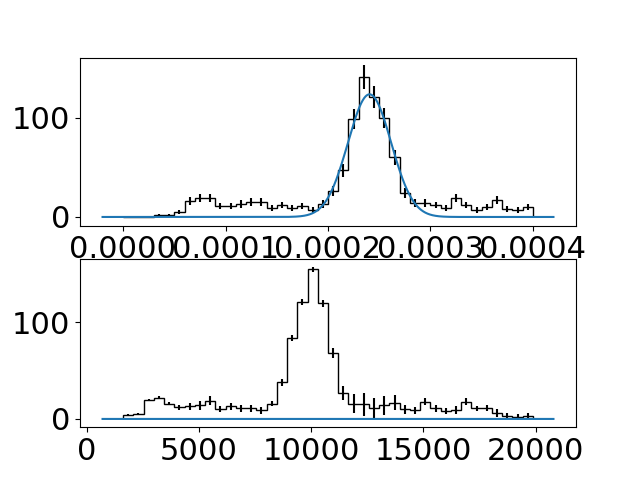
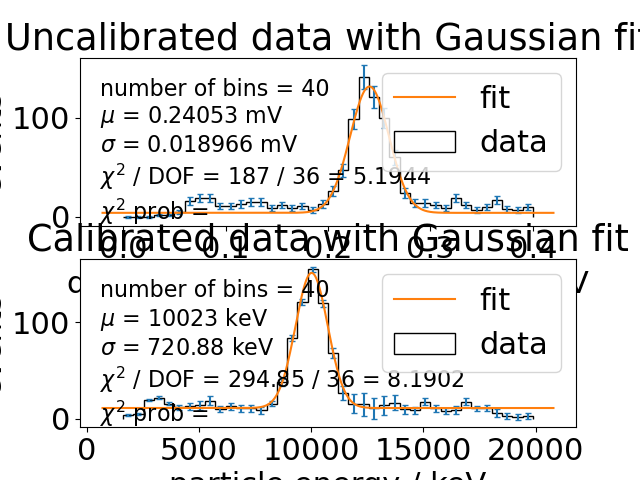
added p0 attributes to estimator classes, added MaxBaseline estimator, added num_of_params attributes to fit_functions, added baseplot_errorbars, baseplot_errorbars_with_markers, to_sf, residual, sum_squared_ratio, calc_dof, calc_raw_chi_squared, calc_reduced_chi_squared to curve_fit_funcs, added in

diff --git a/estimator_analysis.py b/estimator_analysis.py
@@ -1,9 +1,14 @@
 import numpy as np
 import matplotlib.pyplot as plt
 from matplotlib import rc
+from matplotlib.offsetbox import AnchoredText
+from scipy.optimize import curve_fit
+
 import fit_functions
 import fitted_functions
-from scipy.optimize import curve_fit
+from curve_fit_funcs import CurveFitFuncs
+
+cff = CurveFitFuncs()
 
 font = {'family' : 'DejaVu Sans',
         'weight' : 'normal',
@@ -25,7 +30,7 @@ class EstimatorAnalysis():
 
         self.number_of_bins = 40
 
-        self.uncalibrated_bin_heights, self.uncalibrated_bin_edges, _ = ax1.hist(x=self.estimator_results, bins=self.number_of_bins, label='data', color='k', histtype='step', range=(0, 0.0004)) # HARDCODED RANGE
+        self.uncalibrated_bin_heights, self.uncalibrated_bin_edges, _ = ax1.hist(x=self.estimator_results, bins=self.number_of_bins, label='data', color='k', histtype='step', range=self.Estimator.range) # HARDCODED RANGE
         self.uncalibrated_bin_centers = (self.uncalibrated_bin_edges[:-1] + self.uncalibrated_bin_edges[1:]) / 2
 
         self.count_errors = np.sqrt(self.uncalibrated_bin_heights)
@@ -33,39 +38,89 @@ class EstimatorAnalysis():
 
         fit_function_uncalibrated = fit_functions.Gaussian()
 
-        popt, pcov = curve_fit(fit_function_uncalibrated, self.uncalibrated_bin_centers, self.uncalibrated_bin_heights, sigma=self.count_errors, absolute_sigma=True, p0=(100,0.00025,0.00005)) # HARDCODED P0 INITIAL GUESS
+        popt, pcov = curve_fit(fit_function_uncalibrated, self.uncalibrated_bin_centers, self.uncalibrated_bin_heights, sigma=self.count_errors, absolute_sigma=True, p0=self.Estimator.p0) # HARDCODED P0 INITIAL GUESS
         self.error_in_uncalibrated_fit_parameters = np.sqrt(np.diag(pcov))
 
-        (self.uncalibrated_gaussian_scale, self.uncalibrated_gaussian_mu, self.uncalibrated_gaussian_sigma) = tuple(popt)
+        (self.uncalibrated_gaussian_base, self.uncalibrated_gaussian_scale, self.uncalibrated_gaussian_mu, self.uncalibrated_gaussian_sigma) = tuple(popt)
 
         fitted_function_uncalibrated = fitted_functions.Gaussian(*popt)
 
 
         self.calibration_energy = 1e4 # keV
         self.calibration_constant = self.calibration_energy / self.uncalibrated_gaussian_mu
+        print(self.calibration_constant)
         self.calibrated_estimator_results = self.estimator_results * self.calibration_constant
 
-        self.calibrated_bin_heights, self.calibrated_bin_edges, _ = ax2.hist(x=self.calibrated_estimator_results, bins=self.number_of_bins, label='calibrated data', color='k', histtype='step')
+        self.calibrated_bin_heights, self.calibrated_bin_edges, _ = ax2.hist(x=self.calibrated_estimator_results, bins=self.number_of_bins, label='data', color='k', histtype='step')
         self.calibrated_bin_centers = (self.calibrated_bin_edges[:-1] + self.calibrated_bin_edges[1:]) / 2
 
         fit_function_calibrated = fit_functions.Gaussian()
 
-        popt, pcov = curve_fit(fit_function_calibrated, self.calibrated_bin_centers, self.calibrated_bin_heights, sigma=self.count_errors, absolute_sigma=True)
+        if self.Estimator.p0 != None:
+            calibrated_p0 = tuple(value * scale_factor for value, scale_factor in zip(self.Estimator.p0, (1, 1, self.calibration_constant, self.calibration_constant)))
+        else:
+            calibrated_p0 = None
+
+        popt, pcov = curve_fit(fit_function_calibrated, self.calibrated_bin_centers, self.calibrated_bin_heights, sigma=self.count_errors, absolute_sigma=True, p0=calibrated_p0)
         self.error_in_calibrated_fit_parameters = np.sqrt(np.diag(pcov))
 
-        (self.calibrated_gaussian_scale, self.calibrated_gaussian_mu, self.calibrated_gaussian_sigma) = tuple(popt)
+        (self.calibrated_gaussian_base, self.calibrated_gaussian_scale, self.calibrated_gaussian_mu, self.calibrated_gaussian_sigma) = tuple(popt)
 
         fitted_function_calibrated = fitted_functions.Gaussian(*popt)
 
 
-        ax1.errorbar(self.uncalibrated_bin_centers, self.uncalibrated_bin_heights, yerr=self.count_errors, fmt='none', c='k')
-        ax2.errorbar(self.calibrated_bin_centers, self.calibrated_bin_heights, yerr=self.count_errors, fmt='none', c='k')
+
+
+        self.predicted_uncalibrated_bin_heights = fitted_function_uncalibrated(self.uncalibrated_bin_centers)
+        self.uncalibrated_raw_chi_squared = cff.calc_raw_chi_squared(self.uncalibrated_bin_heights, self.predicted_uncalibrated_bin_heights, self.count_errors)
+        self.uncalibrated_dof = cff.calc_dof(self.uncalibrated_bin_heights, fit_function_uncalibrated.num_of_params)
+        self.uncalibrated_reduced_chi_squared = self.uncalibrated_raw_chi_squared / self.uncalibrated_dof
+
+        self.predicted_calibrated_bin_heights = fitted_function_calibrated(self.calibrated_bin_centers)
+        self.calibrated_raw_chi_squared = cff.calc_raw_chi_squared(self.calibrated_bin_heights, self.predicted_calibrated_bin_heights, self.count_errors)
+        self.calibrated_dof = cff.calc_dof(self.calibrated_bin_heights, fit_function_calibrated.num_of_params)
+        self.calibrated_reduced_chi_squared = self.calibrated_raw_chi_squared / self.calibrated_dof
+
+        cff.baseplot_errorbars(ax1, self.uncalibrated_bin_centers, self.uncalibrated_bin_heights, yerr=self.count_errors)
+        cff.baseplot_errorbars(ax2, self.calibrated_bin_centers, self.calibrated_bin_heights, yerr=self.count_errors)
 
         x_for_plotting_uncalibrated = np.linspace(*ax1.get_xlim(), 10000)
         x_for_plotting_calibrated = np.linspace(*ax2.get_xlim(), 10000)
 
-        ax1.plot(x_for_plotting_uncalibrated, fitted_function_uncalibrated(x_for_plotting_uncalibrated))
-        ax2.plot(x_for_plotting_calibrated, fitted_function_calibrated(x_for_plotting_calibrated))
+        ax1.plot(x_for_plotting_uncalibrated, fitted_function_uncalibrated(x_for_plotting_uncalibrated), label='fit')
+        ax2.plot(x_for_plotting_calibrated, fitted_function_calibrated(x_for_plotting_calibrated), label='fit')
+
+        info_sigfigs = 5
+        info_fontsize = 16
+
+        ax1.set_ylabel('events')
+        ax1.set_xlabel('detector response amplitude / mV')
+        ax1.set_title('Uncalibrated data with Gaussian fit')
+        ax1.legend(loc='upper right')
+
+        information_on_ax1 = 'number of bins = ' + str(self.number_of_bins) + \
+                             '\n$\mu$ = ' + cff.to_sf(self.uncalibrated_gaussian_mu, sf=info_sigfigs) + ' mV' + \
+                             '\n$\sigma$ = ' + cff.to_sf(self.uncalibrated_gaussian_sigma, sf=info_sigfigs) + ' mV' + \
+                             '\n$\chi^2$ / DOF = ' + cff.to_sf(self.uncalibrated_raw_chi_squared, sf=info_sigfigs) + ' / ' + str(self.uncalibrated_dof) + ' = ' + cff.to_sf(self.uncalibrated_reduced_chi_squared, sf=info_sigfigs) + \
+                             '\n$\chi^2$ prob = '
+
+        ax1_text = AnchoredText(information_on_ax1, loc='upper left', frameon=False, prop=dict(fontsize=info_fontsize))
+        ax1.add_artist(ax1_text)
+
+
+        ax2.set_ylabel('events')
+        ax2.set_xlabel('particle energy / keV')
+        ax2.set_title('Calibrated data with Gaussian fit')
+        ax2.legend(loc='upper right')
+
+        information_on_ax2 = 'number of bins = ' + str(self.number_of_bins) + \
+                             '\n$\mu$ = ' + cff.to_sf(self.calibrated_gaussian_mu, sf=info_sigfigs) + ' keV' + \
+                             '\n$\sigma$ = ' + cff.to_sf(self.calibrated_gaussian_sigma, sf=info_sigfigs) + ' keV' + \
+                             '\n$\chi^2$ / DOF = ' + cff.to_sf(self.calibrated_raw_chi_squared, sf=info_sigfigs) + ' / ' + str(self.calibrated_dof) + ' = ' + cff.to_sf(self.calibrated_reduced_chi_squared, sf=info_sigfigs) + \
+                             '\n$\chi^2$ prob = '
+
+        ax2_text = AnchoredText(information_on_ax2, loc='upper left', frameon=False, prop=dict(fontsize=info_fontsize))
+        ax2.add_artist(ax2_text)
 
 
         if show:
@@ -73,3 +128,4 @@ class EstimatorAnalysis():
 
         if save:
             fig.savefig('histograms/%s_histograms.png'%self.Estimator.name)
+

diff --git a/curve_fit_funcs.py b/curve_fit_funcs.py
@@ -1,0 +1,37 @@
+import numpy as np
+
+class CurveFitFuncs():
+    def __init__(self):
+        pass
+
+    def baseplot_errorbars(self, ax, x, y, yerr=None, xerr=None, label=None, **kwargs):
+        ax.errorbar(x, y, yerr=yerr, xerr=xerr, linestyle='None', capsize=2, label=label, **kwargs)
+
+    def baseplot_errorbars_with_markers(self, ax, x, y, yerr=None, xerr=None, label=None, marker='.', **kwargs):
+        ax.errorbar(x, y, yerr=yerr, xerr=xerr, linestyle='None', capsize=2, label=label, marker=marker)
+    
+    def to_sf(self, num, sf=4):
+        return (f'{num:.{sf}g}')
+
+
+
+    def residual(self, yarr_measured, yarr_predicted):
+        return yarr_measured - yarr_predicted
+
+    def sum_squared_ratio(self, numer, denom):
+        return np.sum((numer ** 2) / (denom ** 2))
+
+    def calc_dof(self, yarr_measured, params_in_model):
+        dof = len(yarr_measured) - params_in_model
+        return dof
+
+    def calc_raw_chi_squared(self, yarr_measured, yarr_predicted, y_uncertainty):
+        numer = self.residual(yarr_measured, yarr_predicted)
+        denom = y_uncertainty
+        return self.sum_squared_ratio(numer, denom)
+
+    def calc_reduced_chi_squared(self, yarr_measured, yarr_predicted, y_uncertainty, params_in_model):
+        numer = self.residual(yarr_measured, yarr_predicted)
+        denom = y_uncertainty
+        dof = len(yarr_measured) - params_in_model
+        return self.sum_squared_ratio(numer, denom) / dof

diff --git a/StarterCode.py b/StarterCode.py
@@ -32,15 +32,15 @@ def fit_pulse(x, A):
 with open("calibration_p3.pkl","rb") as file:
     calibration_data=pickle.load(file)
 
-pulse_template = pulse_shape(20,80)
-plt.plot(pulse_template/2000, label='Pulse Template', color='r')
-for itrace in range(10):
-    plt.plot(calibration_data['evt_%i'%itrace], alpha=0.3)
-plt.xlabel('Sample Index')
-plt.ylabel('Readout (V)')
-plt.title('Calibration data (10 sets)')
-plt.legend(loc=1)
-plt.show()
+# pulse_template = pulse_shape(20,80)
+# plt.plot(pulse_template/2000, label='Pulse Template', color='r')
+# for itrace in range(10):
+#     plt.plot(calibration_data['evt_%i'%itrace], alpha=0.3)
+# plt.xlabel('Sample Index')
+# plt.ylabel('Readout (V)')
+# plt.title('Calibration data (10 sets)')
+# plt.legend(loc=1)
+# plt.show()
 """ 
 This shows the first 10 data sets on top of each other.
 Always a good idea to look at some of your data before analysing it!
@@ -107,6 +107,8 @@ plt.errorbar(bin_centers1, n1, yerr=sig1, fmt='none', c='k')
 
 popt1, pcov1 = curve_fit(myGauss, bin_centers1, n1, 
              sigma = sig1, p0=(100,0.25,0.05,5), absolute_sigma=True)
+
+print(popt1)
 n1_fit = myGauss(bin_centers1, *popt1)
 """
 n1_fit is our best fit line using our data points.

diff --git a/estimators.py b/estimators.py
@@ -3,6 +3,8 @@ import numpy as np
 class MaximumValue():
     def __init__(self):
         self.name = 'Maximumvalue'
+        self.range = (0, 0.4)
+        self.p0 = (0, 100, 0.25, 0.05)
 
     def __call__(self, data):
         estimate = np.max(data)
@@ -12,6 +14,8 @@ class MaximumValue():
 class MinMax():
     def __init__(self):
         self.name = 'MinMax'
+        self.range = None
+        self.p0 = (0, 150, 0.3, 0.05)
 
     def __call__(self, data):
         estimate = np.max(data) - np.min(data)
@@ -20,3 +24,11 @@ class MinMax():
 class MaxBaseline():
     def __init__(self):
         self.name = 'MaxBaseline'
+        self.range = None
+        self.p0 = None
+
+    def __call__(self, data):
+        baseline = np.mean(data[:1000])
+        max = np.max(data)
+        estimate = max - baseline
+        return estimate

diff --git a/fitted_functions.py b/fitted_functions.py
@@ -1,11 +1,12 @@
 import numpy as np
 
 class Gaussian(): # height is usually 1; not probability density
-    def __init__(self, scale, mu, sigma):
+    def __init__(self, base, scale, mu, sigma):
         self.scale = scale
         self.mu = mu
         self.sigma = sigma
+        self.base = base
 
     def __call__(self, x):
-        result = self.scale * np.exp(-0.5 * ((x - self.mu) / self.sigma) ** 2)
+        result = self.base + self.scale * np.exp(-0.5 * ((x - self.mu) / self.sigma) ** 2)
         return result

diff --git a/data_loader.py b/data_loader.py
@@ -6,7 +6,11 @@ class Data():
     def __init__(self, filename):
         with open(filename, 'rb') as file:
             self.full_data = pkl.load(file)
+
         self.length = len(self.full_data)
+
+        for event in range(self.length):
+            self.full_data['evt_%i' % event] = self.full_data['evt_%i' % event] * 1000 # 1000 conversion factor from V to mV
 
     def __call__(self, event):
         self.current_event_data = self.full_data['evt_%i' % event]

diff --git a/fit_functions.py b/fit_functions.py
@@ -2,8 +2,9 @@ import numpy as np
 
 class Gaussian(): # height is usually 1; not probability density
     def __init__(self):
+        self.num_of_params = 4
         pass
 
-    def __call__(self, x, scale, mu, sigma):
-        result = scale * np.exp(-0.5 * ((x - mu) / sigma) ** 2)
+    def __call__(self, x, base, scale, mu, sigma):
+        result = base + scale * np.exp(-0.5 * ((x - mu) / sigma) ** 2)
         return result
